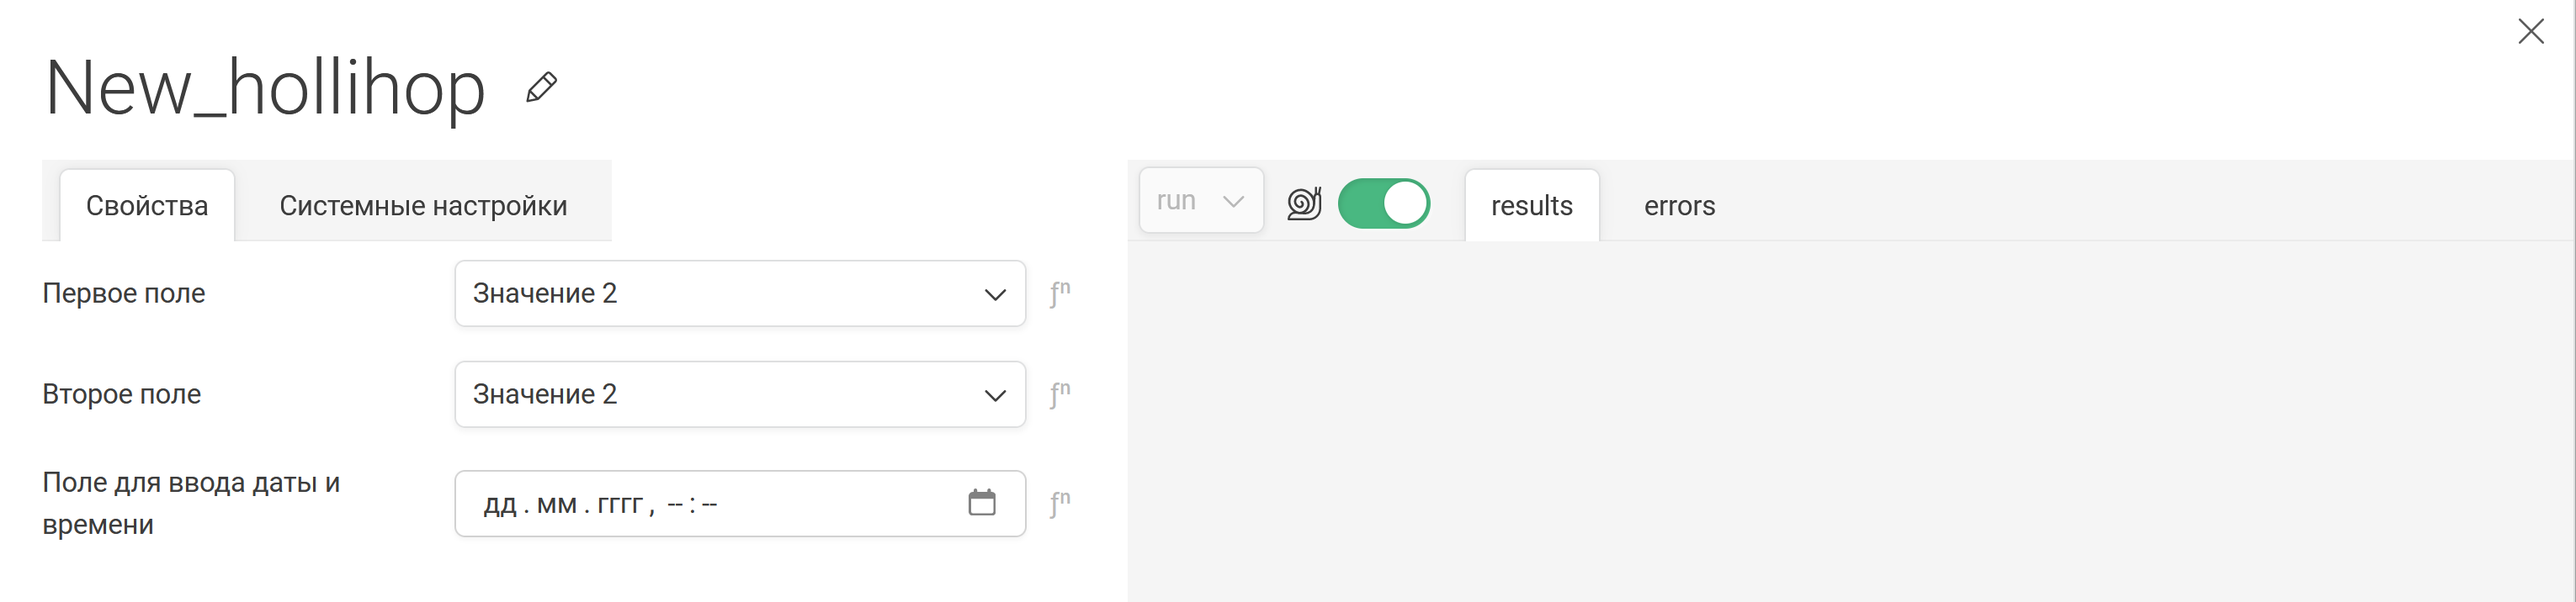
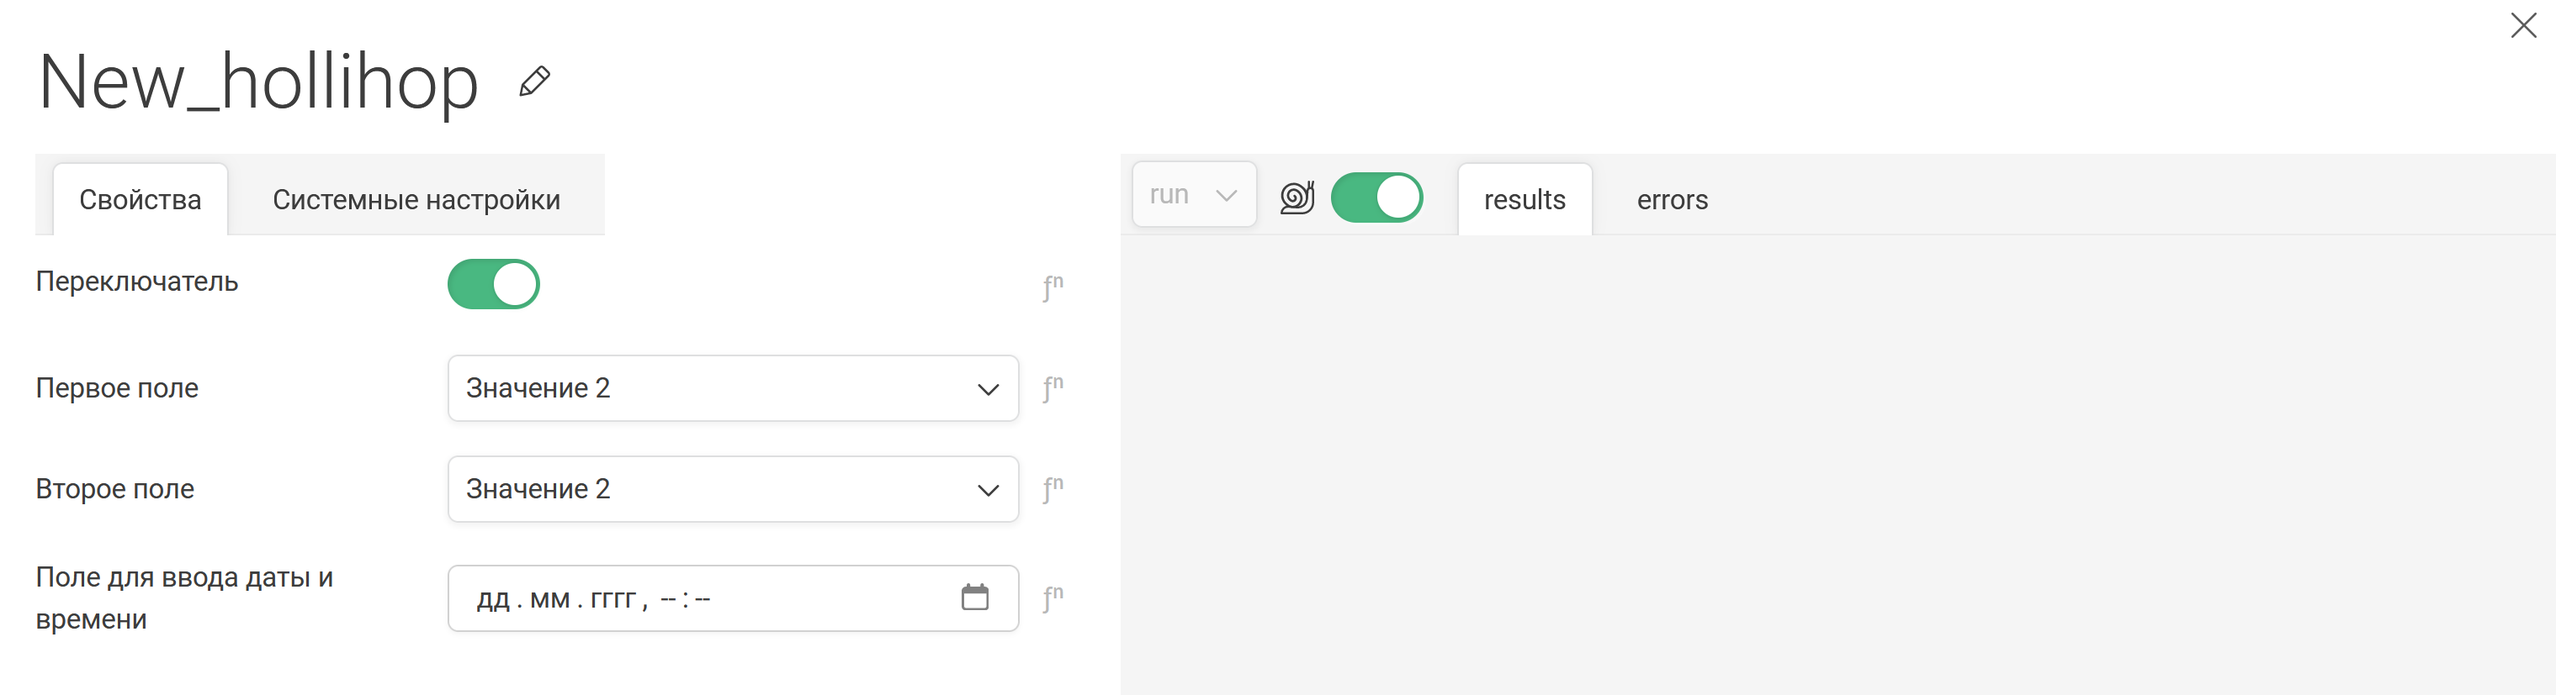
switch added

diff --git a/node/service.py b/node/service.py
@@ -18,7 +18,7 @@ from uc_flow_schemas.flow import Property, RunState, OptionValue
 
 
 class NodeType(flow.NodeType):
-    id: str = '5d684caf-1c2a-40b0-a8cd-97026720de97'
+    id: str = '2312fe16-d792-4ed0-8b2b-81ed0bfecdd0'
     secret: SecretStr = '999'
     type: BaseNodeType.Type = BaseNodeType.Type.action
     displayName: str = 'New_hollihop'
@@ -29,6 +29,11 @@ class NodeType(flow.NodeType):
     inputs: List[str] = ['main']
     outputs: List[str] = ['main']
     properties: List[Property] = [
+        Property(
+            displayName='Переключатель',
+            name='switch',
+            type=Property.Type.BOOLEAN,
+        ),
         Property(
             displayName='Первое поле',
             name='first_field',
@@ -46,6 +51,13 @@ class NodeType(flow.NodeType):
                     description='Значение 2'
                 )
             ],
+            displayOptions=DisplayOptions(
+                show={
+                    'switch': [
+                    True
+                    ]
+                },
+            ),
         ),
         Property(
             displayName='Второе поле',
@@ -63,7 +75,14 @@ class NodeType(flow.NodeType):
                     value='second_field_second_option',
                     description='Значение 2',
                 ),
-            ]
+            ],
+            displayOptions=DisplayOptions(
+                show={
+                    'switch': [
+                    True
+                    ]
+                },
+            ),
         ),
         Property(
             displayName='Поле для ввода почты',

diff --git a/README.md b/README.md
@@ -69,11 +69,17 @@
 
 ## Результат:
 
-Реализовала интерфейс для "кубика".
-![](images/interface.PNG)
+Реализовала интерфейс для "кубика" c переключателем.
+![](images/start_interface.PNG)
+
+При включении переключателя появляются поля для выбора значений.
+![](images/switch_on.PNG)
 
 При выборе "Значения 1" появляется поле для ввода email.
 ![](images/email.PNG)
 
 При выборе "Значение 2" появляется поле для ввода даты и времени
 ![](images/datetime.PNG)
+
+При выборе разных значений ничего не происходит.
+![](images/different_options.PNG)
